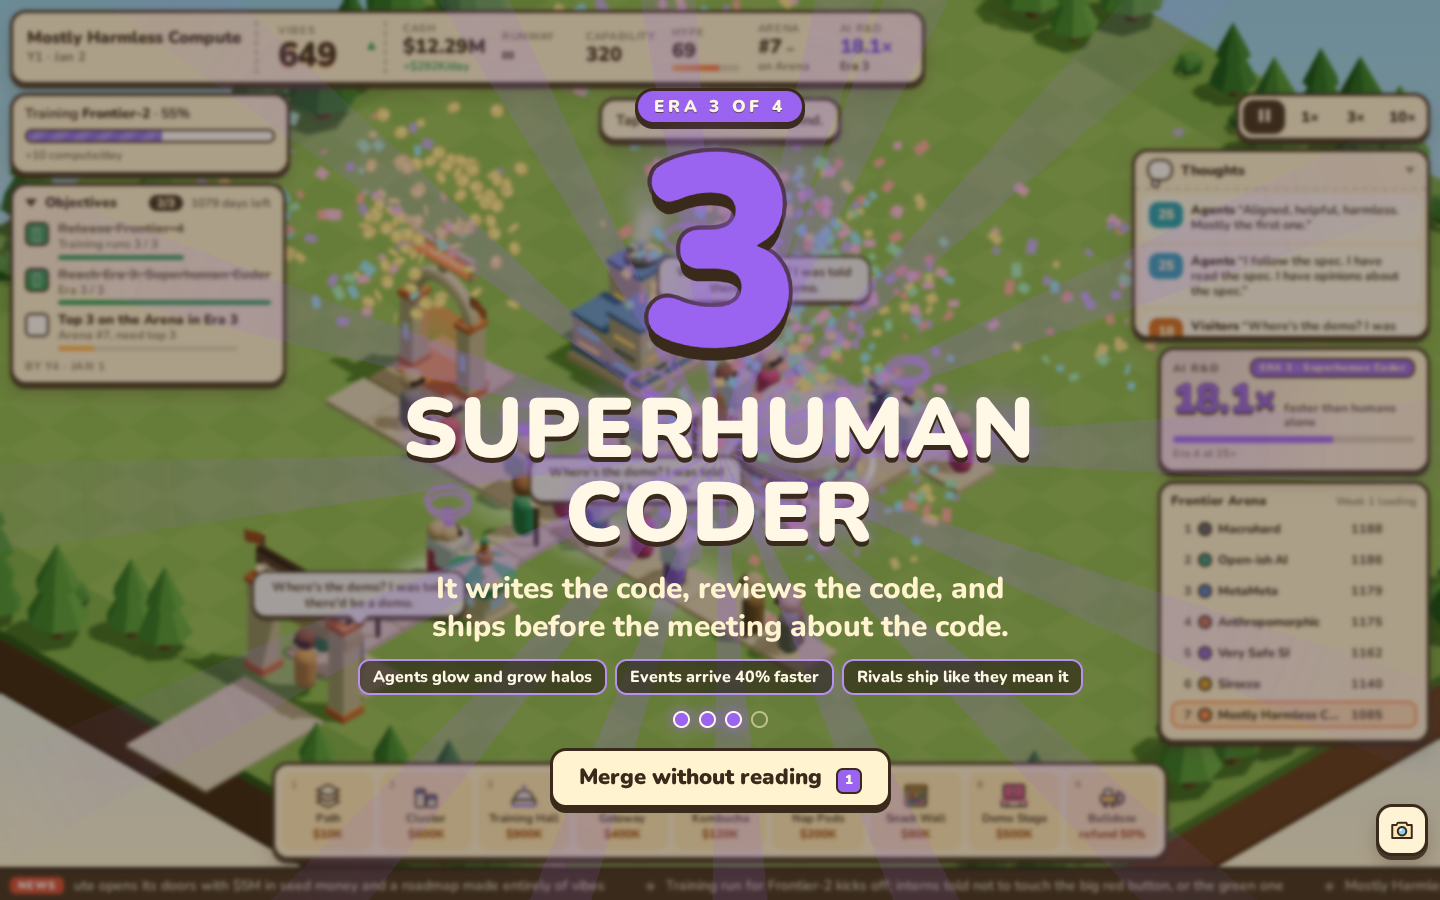
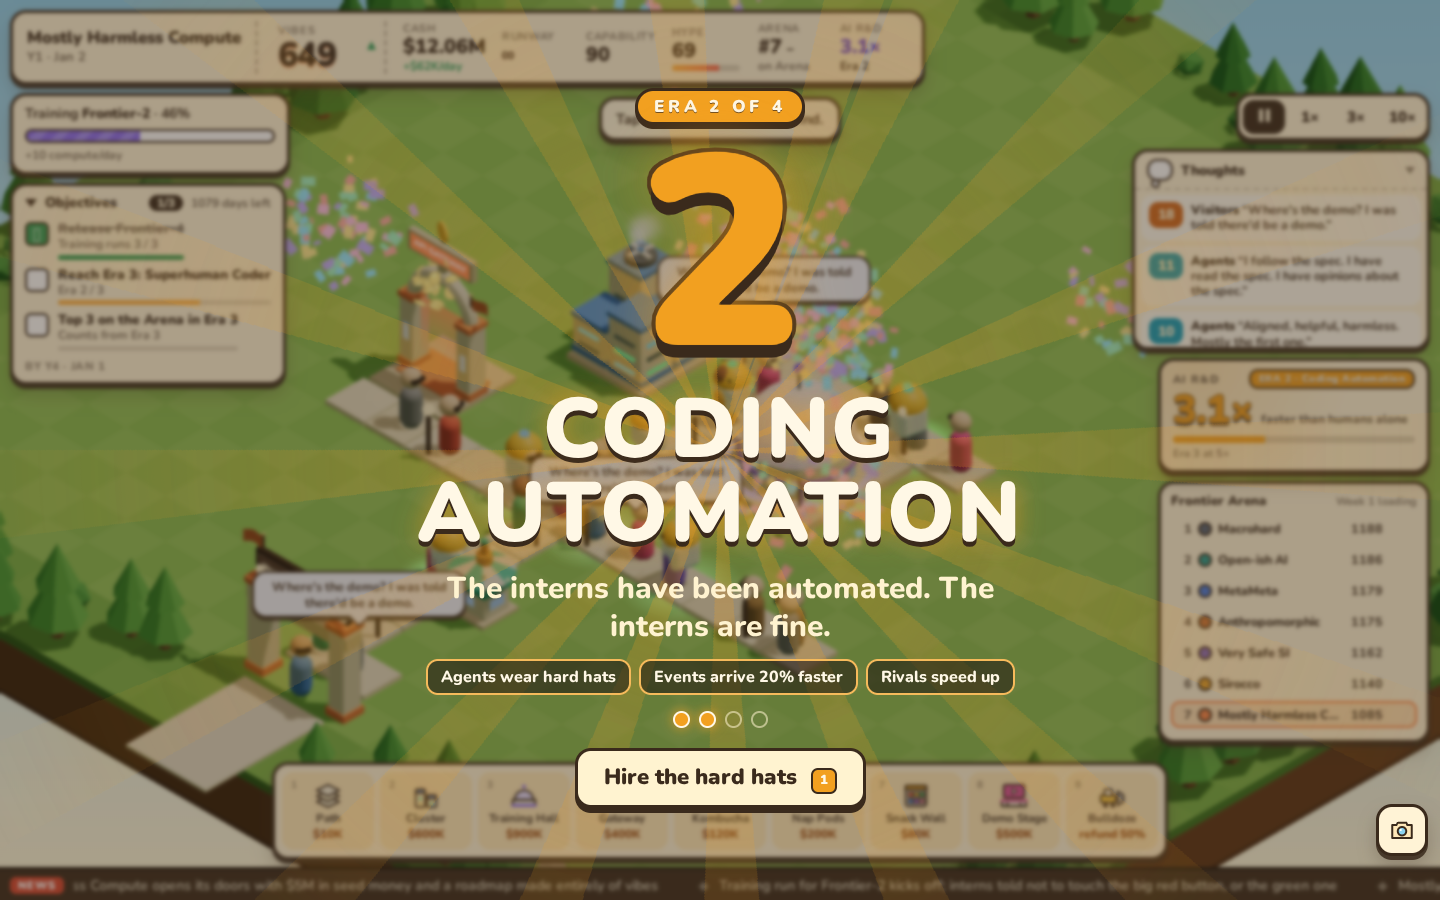
Race: ?moment= debug scenes (shuffle, era, era3, auction, funding) for links and screenshots (FLT-9)

diff --git a/src/sim/race/demo.ts b/src/sim/race/demo.ts
@@ -1,0 +1,74 @@
+// Debug scenes for the race (`?moment=shuffle|era|era3|auction|funding`): the game is staged a moment before
+// something happens, so a link or a screenshot script lands right on it. Pure sim: it only moves the World along,
+// deterministically, the way a player could have; it isn't used by the game itself.
+import { canPlace } from "../commands";
+import type { RivalContext, RivalStored } from "./rival";
+import { applyNow, tick, TICKS_PER_DAY } from "../tick";
+import type { GameState } from "../types";
+
+export const MOMENTS = ["shuffle", "era", "era3", "auction", "funding"] as const;
+export type Moment = (typeof MOMENTS)[number];
+export const isMoment = (s: string | null | undefined): s is Moment => !!s && (MOMENTS as readonly string[]).includes(s);
+
+/** Replace a rival's stored context (and, if given, its state) with a patched copy. */
+function patch(s: GameState, id: string, over: Partial<RivalContext>, value?: string) {
+  const i = s.race.rivals.findIndex((r) => r.context.id === id);
+  const r = s.race.rivals[i]!;
+  s.race.rivals[i] = { value: value ?? r.value, context: { ...r.context, ...over } } as RivalStored;
+}
+
+/** Put the clock `ticks` before the midnight that starts `day`. */
+function before(s: GameState, day: number, ticks: number) {
+  s.tick = day * TICKS_PER_DAY - ticks;
+  s.day = Math.floor(s.tick / TICKS_PER_DAY);
+}
+
+/** A lab with a gateway and revenue, still in Era 1. */
+function withRevenue(s: GameState) {
+  for (const [x, z] of [[6, 14], [15, 13], [7, 17]] as const) {
+    if (canPlace(s, "gateway", x, z).ok) {
+      applyNow(s, [{ type: "placeBuilding", kind: "gateway", x, z }]);
+      break;
+    }
+  }
+  s.cash = 12_000_000;
+  s.hype = 68;
+  s.vibes = { ...s.vibes, value: 640 };
+  s.capability = 42;
+  s.models = ["Frontier-2", "Frontier-3-Reasoner", "Frontier-4"];
+}
+
+export function stageMoment(s: GameState, moment: Moment) {
+  switch (moment) {
+    case "shuffle": {
+      // Week 1: you are on top. A moment before week 2, three labs surge, and Sirocco is about to drop a free model.
+      withRevenue(s);
+      for (const id of ["anthro", "openish", "metameta", "sirocco", "macrohard"]) patch(s, id, { capability: 34, hype: 45 });
+      before(s, 7, 1);
+      tick(s);
+      patch(s, "openish", { capability: 52, hype: 68 });
+      patch(s, "macrohard", { capability: 49, hype: 64 });
+      patch(s, "sirocco", { weeks: 1, capability: 44, hype: 72 }, "training");
+      before(s, 14, 16); // 1.6 seconds at 1x
+      return;
+    }
+    case "era":
+    case "era3":
+      withRevenue(s);
+      // The agents in the crowd grow toward their new target on the first midnight: about 3.4x and about 9x.
+      s.capability = moment === "era" ? 90 : 200;
+      before(s, 3, 6);
+      return;
+    case "auction":
+      withRevenue(s);
+      before(s, 40, 6);
+      return;
+    case "funding":
+      s.cash = 450_000;
+      s.capability = 40;
+      s.hype = 62;
+      s.vibes = { ...s.vibes, value: 640 };
+      before(s, 3, 6);
+      return;
+  }
+}

diff --git a/src/sim/race/race.test.ts b/src/sim/race/race.test.ts
@@ -20,6 +20,7 @@ import { datacenterCompute, gasDiscourse, powerOf, solarHype } from "./power";
 import { dailyRace, eraOfState, weekly } from "./race";
 import { rdMultiplier, multiplierFor, releaseBoost, workingCapability } from "./rd";
 import { rankBoard } from "./state";
+import { stageMoment } from "./demo";
 import { raceView } from "./view";
 import { resolveAuction, winChance } from "./actions";
 import { eraNumber } from "./era";
@@ -547,3 +548,33 @@ describe("the race in a running game", () => {
     expect(v.vars.bidMid).toMatch(/^\$/);
   });
 });
+
+describe("debug moments (?moment=)", () => {
+  const stageAndRun = (moment: Parameters<typeof stageMoment>[1], ticks: number) => {
+    const s = createInitialState(3);
+    stageMoment(s, moment);
+    for (let i = 0; i < ticks; i++) tick(s);
+    return s;
+  };
+
+  it("shuffle: you are #1, then a week turns, three labs pass you and Sirocco's free model opens the card", () => {
+    const s = createInitialState(3);
+    stageMoment(s, "shuffle");
+    expect(s.race.rank).toBe(1);
+    expect(s.day).toBe(13);
+    for (let i = 0; i < 20; i++) tick(s);
+    expect(s.race.rank).toBeGreaterThanOrEqual(3);
+    expect(s.race.rankDelta).toBeLessThan(0);
+    expect(s.race.openDrop?.rival).toBe("sirocco");
+    for (let i = 0; i < 40 && !openEventOf(s); i++) tick(s);
+    expect(openEventOf(s)?.id).toBe("openWeights");
+  });
+
+  it("era, era3, auction and funding each open their card within a second or two", () => {
+    expect(openEventOf(stageAndRun("era", 20))?.id).toBe("era2");
+    expect(openEventOf(stageAndRun("era3", 20))?.id).toBe("era3");
+    expect(openEventOf(stageAndRun("auction", 20))?.id).toBe("computeAuction");
+    expect(openEventOf(stageAndRun("funding", 20))?.id).toBe("fundingRound");
+  });
+});
+

diff --git a/src/app/sim.ts b/src/app/sim.ts
@@ -11,6 +11,7 @@ import { applyNow, tick, TICKS_PER_DAY } from "../sim/tick";
 import { syncProtesters } from "../sim/protest";
 import type { GameState, NewsItem, OpenEvent, Outcome } from "../sim/types";
 import { fillAgents, seedWalkers } from "../sim/walkers";
+import { isMoment, stageMoment } from "../sim/race/demo";
 import { walkersThinking } from "../sim/mind";
 import { makeSnapshot, NO_SELECTION, type Snapshot, type UiSelection, type UiToast } from "./hud";
 
@@ -81,9 +82,10 @@ export class SimHandle {
 }
 
 /** A living campus, warped forward and dressed up per the `?seed=&warp=&agents=&discourse=` debug knobs. */
-export function createSimHandle(dbg: Pick<DebugParams, "seed" | "warp" | "agents" | "discourse" | "researchers">): SimHandle {
+export function createSimHandle(dbg: Pick<DebugParams, "seed" | "warp" | "agents" | "discourse" | "researchers"> & { moment?: string | null }): SimHandle {
   const sim = createInitialState(dbg.seed);
   for (let i = 0; i < dbg.warp * TICKS_PER_DAY; i++) tick(sim);
+  if (isMoment(dbg.moment)) stageMoment(sim, dbg.moment);
   if (dbg.agents > 0 || dbg.discourse > 0 || dbg.researchers > 0) {
     const rng = createRng(sim.rngState);
     if (dbg.researchers > 0) seedWalkers(sim, "researcher", dbg.researchers, rng);

diff --git a/src/debug.ts b/src/debug.ts
@@ -1,4 +1,4 @@
-// URL knobs for screenshots and stress tests, e.g. /?seed=3&warp=25&zoom=70&focus=12,14&agents=200&discourse=44&researchers=20&hour=22&photo
+// URL knobs for screenshots and stress tests, e.g. /?seed=3&warp=25&zoom=70&focus=12,14&agents=200&discourse=44&researchers=20&hour=22&photo&moment=shuffle
 export interface DebugParams {
   seed: number;
   /** Simulate this many game days before the first frame. */
@@ -14,6 +14,8 @@ export interface DebugParams {
   hour: number | null;
   /** Open in photo mode. */
   photo: boolean;
+  /** Stage a race moment a second before it happens: shuffle, era, era3, auction or funding (sim/race/demo.ts). */
+  moment: string | null;
   /** Extra researchers on top of the hall-driven count (for Thoughts-panel and queue screenshots). */
   researchers: number;
 }
@@ -32,6 +34,7 @@ export function readDebugParams(search = typeof window === "undefined" ? "" : wi
     discourse: num("discourse") ?? 0,
     hour: num("hour"),
     photo: q.has("photo"),
+    moment: q.get("moment"),
     researchers: num("researchers") ?? 0,
   };
 }

diff --git a/docs/ARCHITECTURE.md b/docs/ARCHITECTURE.md
@@ -307,5 +307,7 @@ Everything the race does is a machine plus a driver, in the same shape as the re
 | The 500-walker perf test | unchanged within noise (0.23 to 0.28 ms; the budget stays 0.3, doubled under `CI`) |
 | A scripted player (`sim/playthrough.test.ts`, three seeds) | Era 2 around day 70 to 100, Era 3 and the win around day 450, first #1 around day 100 then back to #5 or #6, Era 4 around day 1000 |
 
+Debug scenes: `?moment=shuffle` (you are #1, a week turns, three labs pass you and a free model drops), `?moment=era`, `?moment=era3`, `?moment=auction` and `?moment=funding` stage the game about a second before the thing happens (`sim/race/demo.ts`); `scripts/race-shots.mjs` drives the same moments for screenshots.
+
 Test files now run one at a time (`fileParallelism: false` in `vite.config.ts`): on a 1-vCPU box the wall-clock perf tests were measuring their neighbours.
 
